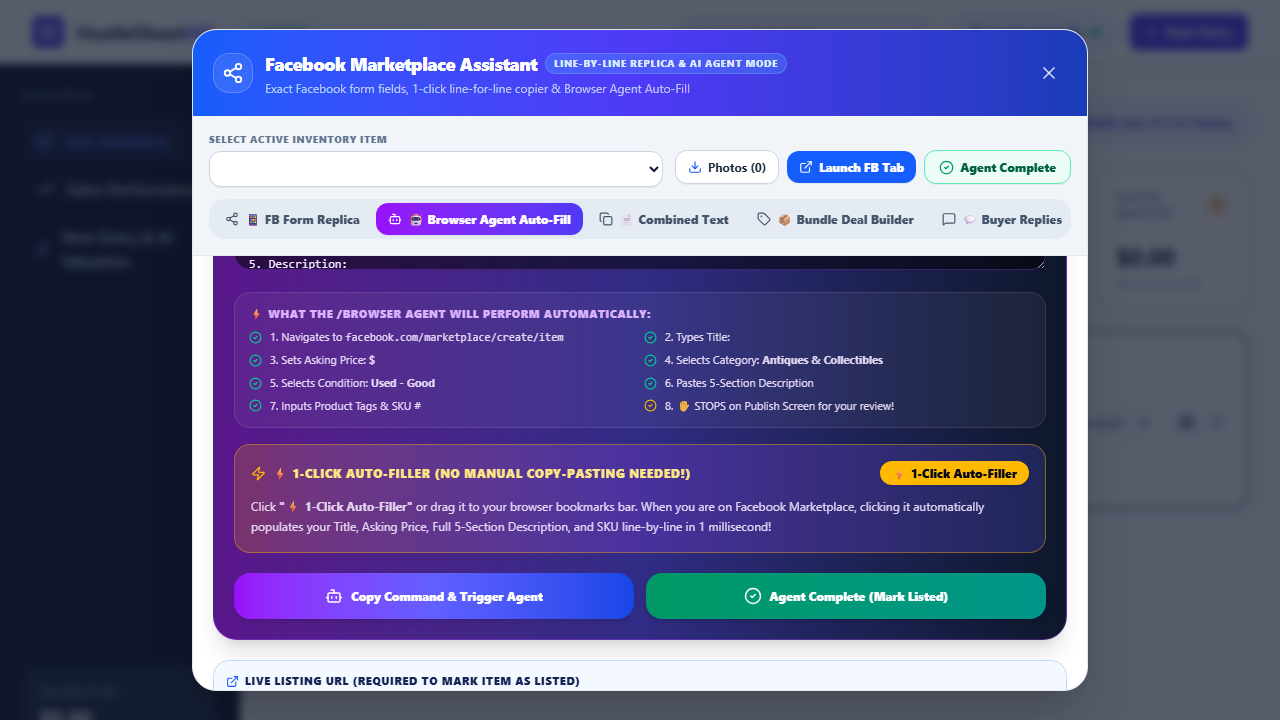
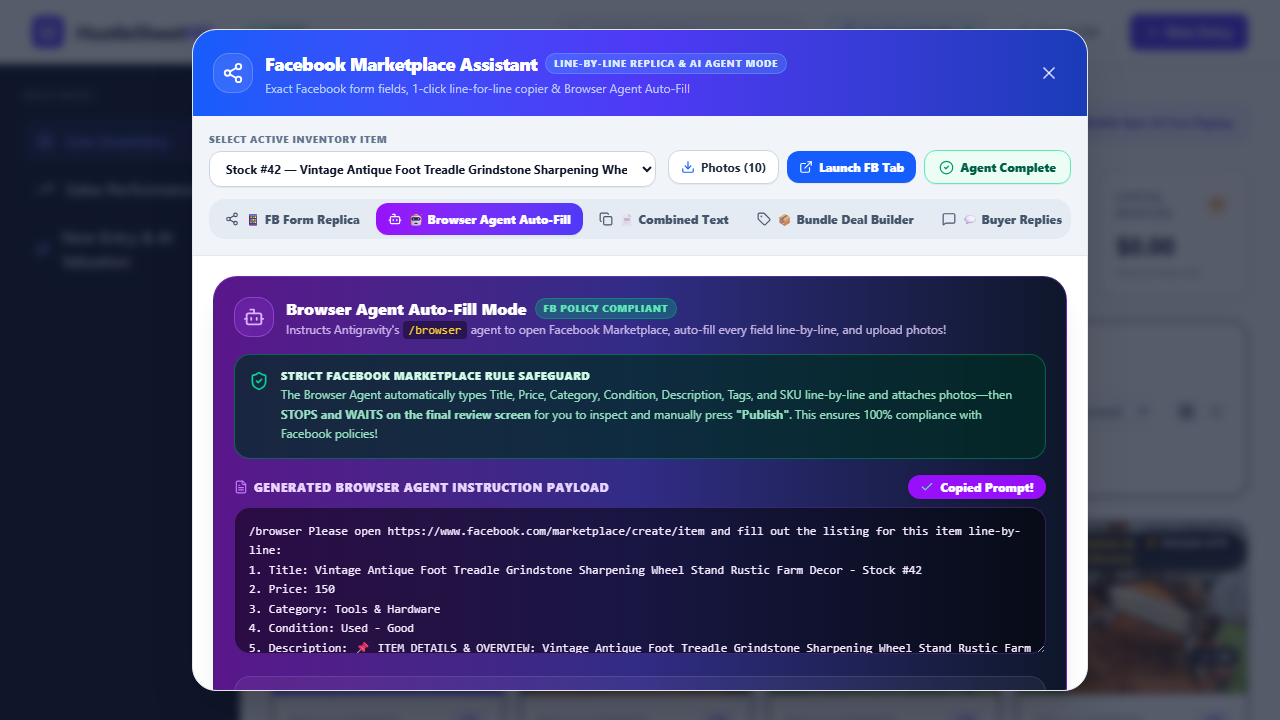
Fix React blocked javascript: URL exception using DOM ref attribute setting in FBHubModal.tsx

diff --git a/src/components/FBHubModal.tsx b/src/components/FBHubModal.tsx
@@ -392,6 +392,15 @@ Please fill in all fields line-by-line, upload the item photos, and STOP on the 
   );
   const recommendedBundlePrice = Math.round(totalBundleSum * 0.85);
 
+  // DOM Ref to bypass React JSX javascript: URL blocking security error
+  const bookmarkletRef = React.useRef<HTMLAnchorElement>(null);
+
+  useEffect(() => {
+    if (bookmarkletRef.current) {
+      bookmarkletRef.current.setAttribute("href", getAutoFillBookmarkletCode());
+    }
+  }, [fbTitle, fbPrice, fbDescription, fbSku, fbTags, viewTab]);
+
   return (
     <div className="fixed inset-0 bg-slate-900/70 backdrop-blur-xs z-50 flex items-center justify-center p-2 sm:p-4 overflow-y-auto animate-fade-in" id="fb-hub-modal">
       <div className="bg-white border border-slate-200 rounded-3xl max-w-4xl w-full shadow-2xl overflow-hidden my-auto flex flex-col max-h-[92vh]">
@@ -696,15 +705,16 @@ Please fill in all fields line-by-line, upload the item photos, and STOP on the 
                       ⚡ 1-Click Auto-Filler (No Manual Copy-Pasting Needed!)
                     </span>
                     <a
-                      href={getAutoFillBookmarkletCode()}
+                      ref={bookmarkletRef}
                       onClick={(e) => {
                         e.preventDefault();
                         copyToClipboard(getAutoFillBookmarkletCode(), "autofill");
-                        alert("⚡ Auto-Fill Script Copied!\n\nIMPORTANT CHROME NOTE:\nWhen pasting into Chrome's top address bar, Chrome automatically strips the word 'javascript:'.\n\nTo run it:\n1. Press F12 on Facebook -> click Console -> paste & press Enter!\nOR\n2. If pasting in the address bar, type 'javascript:' back at the very start before hitting Enter!");
+                        alert("⚡ Auto-Fill Script Copied to Clipboard!\n\n3 WAYS TO RUN ON FACEBOOK MARKETPLACE:\n\n1. BOOKMARKLET (Easiest): Drag this gold button to your Chrome Bookmarks bar (Ctrl+Shift+B) & click it on Facebook!\n\n2. CONSOLE (F12): On Facebook, press F12 -> Console tab -> paste & press Enter!\n\n3. ADDRESS BAR: If pasting in the top URL bar, type 'javascript:' at the very front before hitting Enter!");
                       }}
-                      className="py-1 px-3 bg-amber-400 hover:bg-amber-300 text-slate-950 text-xs font-black rounded-xl transition shadow-sm cursor-grab active:cursor-grabbing flex items-center gap-1"
+                      className="py-1.5 px-3.5 bg-amber-400 hover:bg-amber-300 text-slate-950 text-xs font-black rounded-xl transition shadow-sm cursor-grab active:cursor-grabbing flex items-center gap-1.5"
                       title="Drag to bookmarks bar or click to copy auto-fill script"
                     >
+                      <Zap size={14} className="fill-slate-950 text-slate-950" />
                       <span>⚡ 1-Click Auto-Filler</span>
                     </a>
                   </div>
